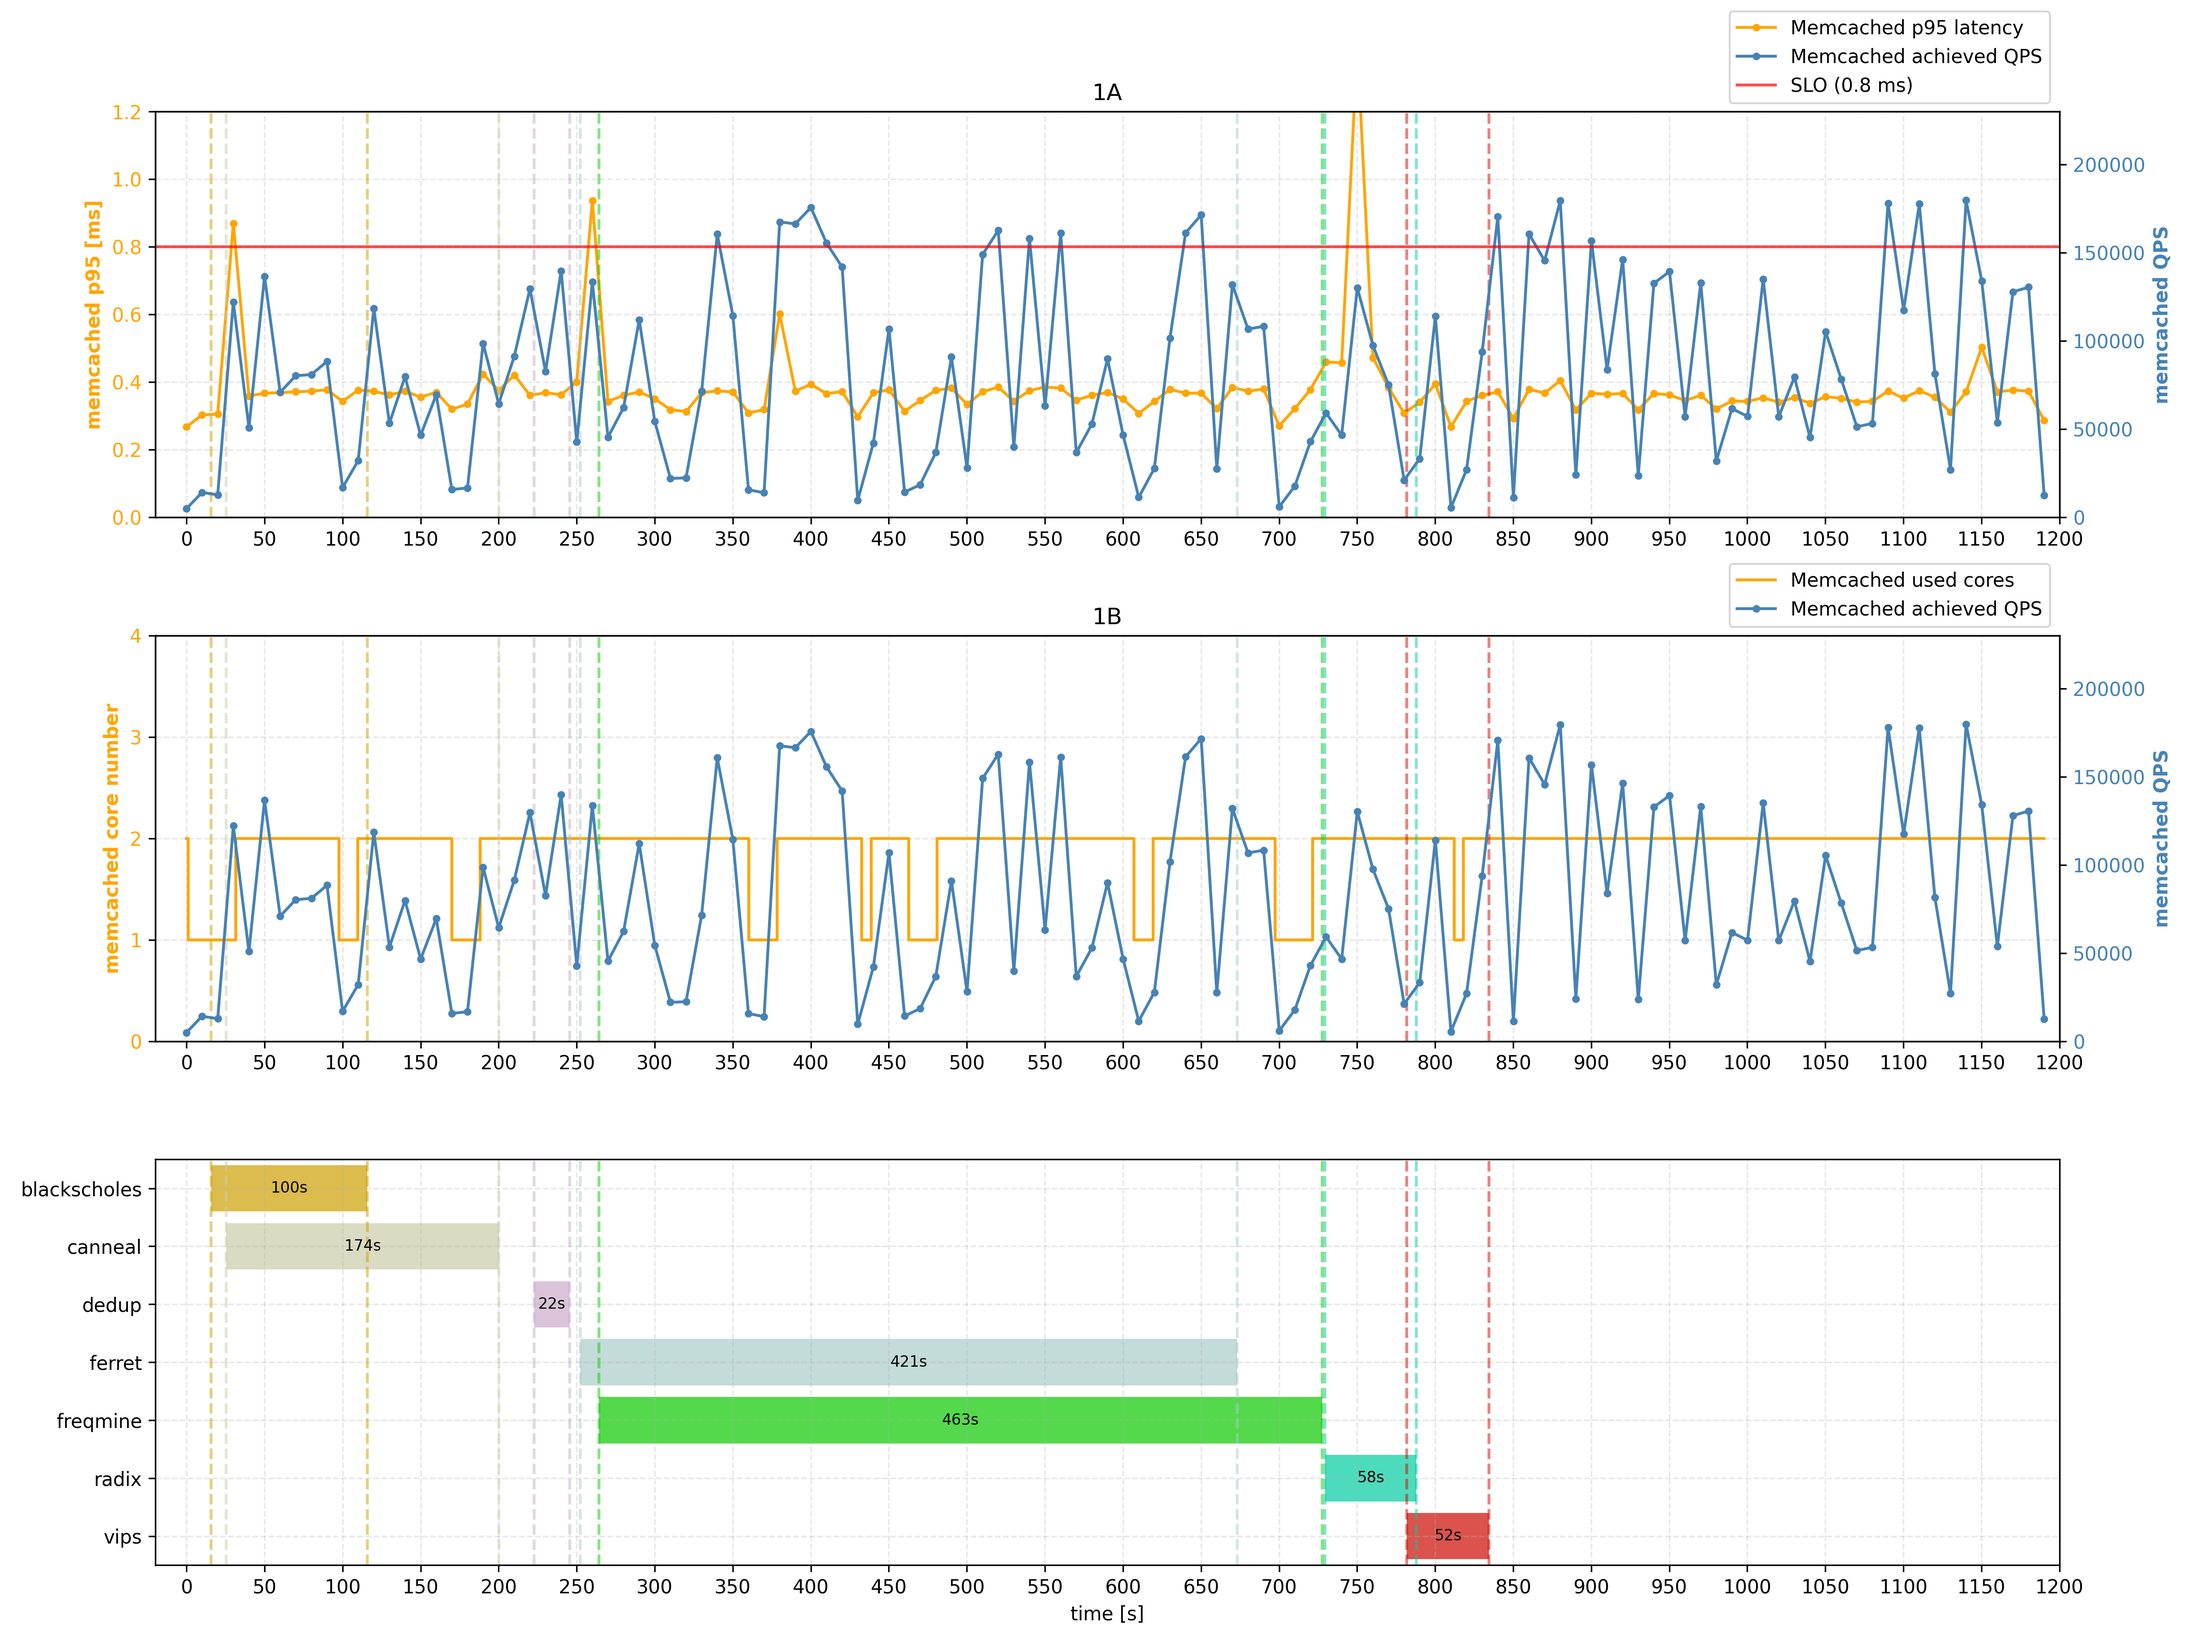
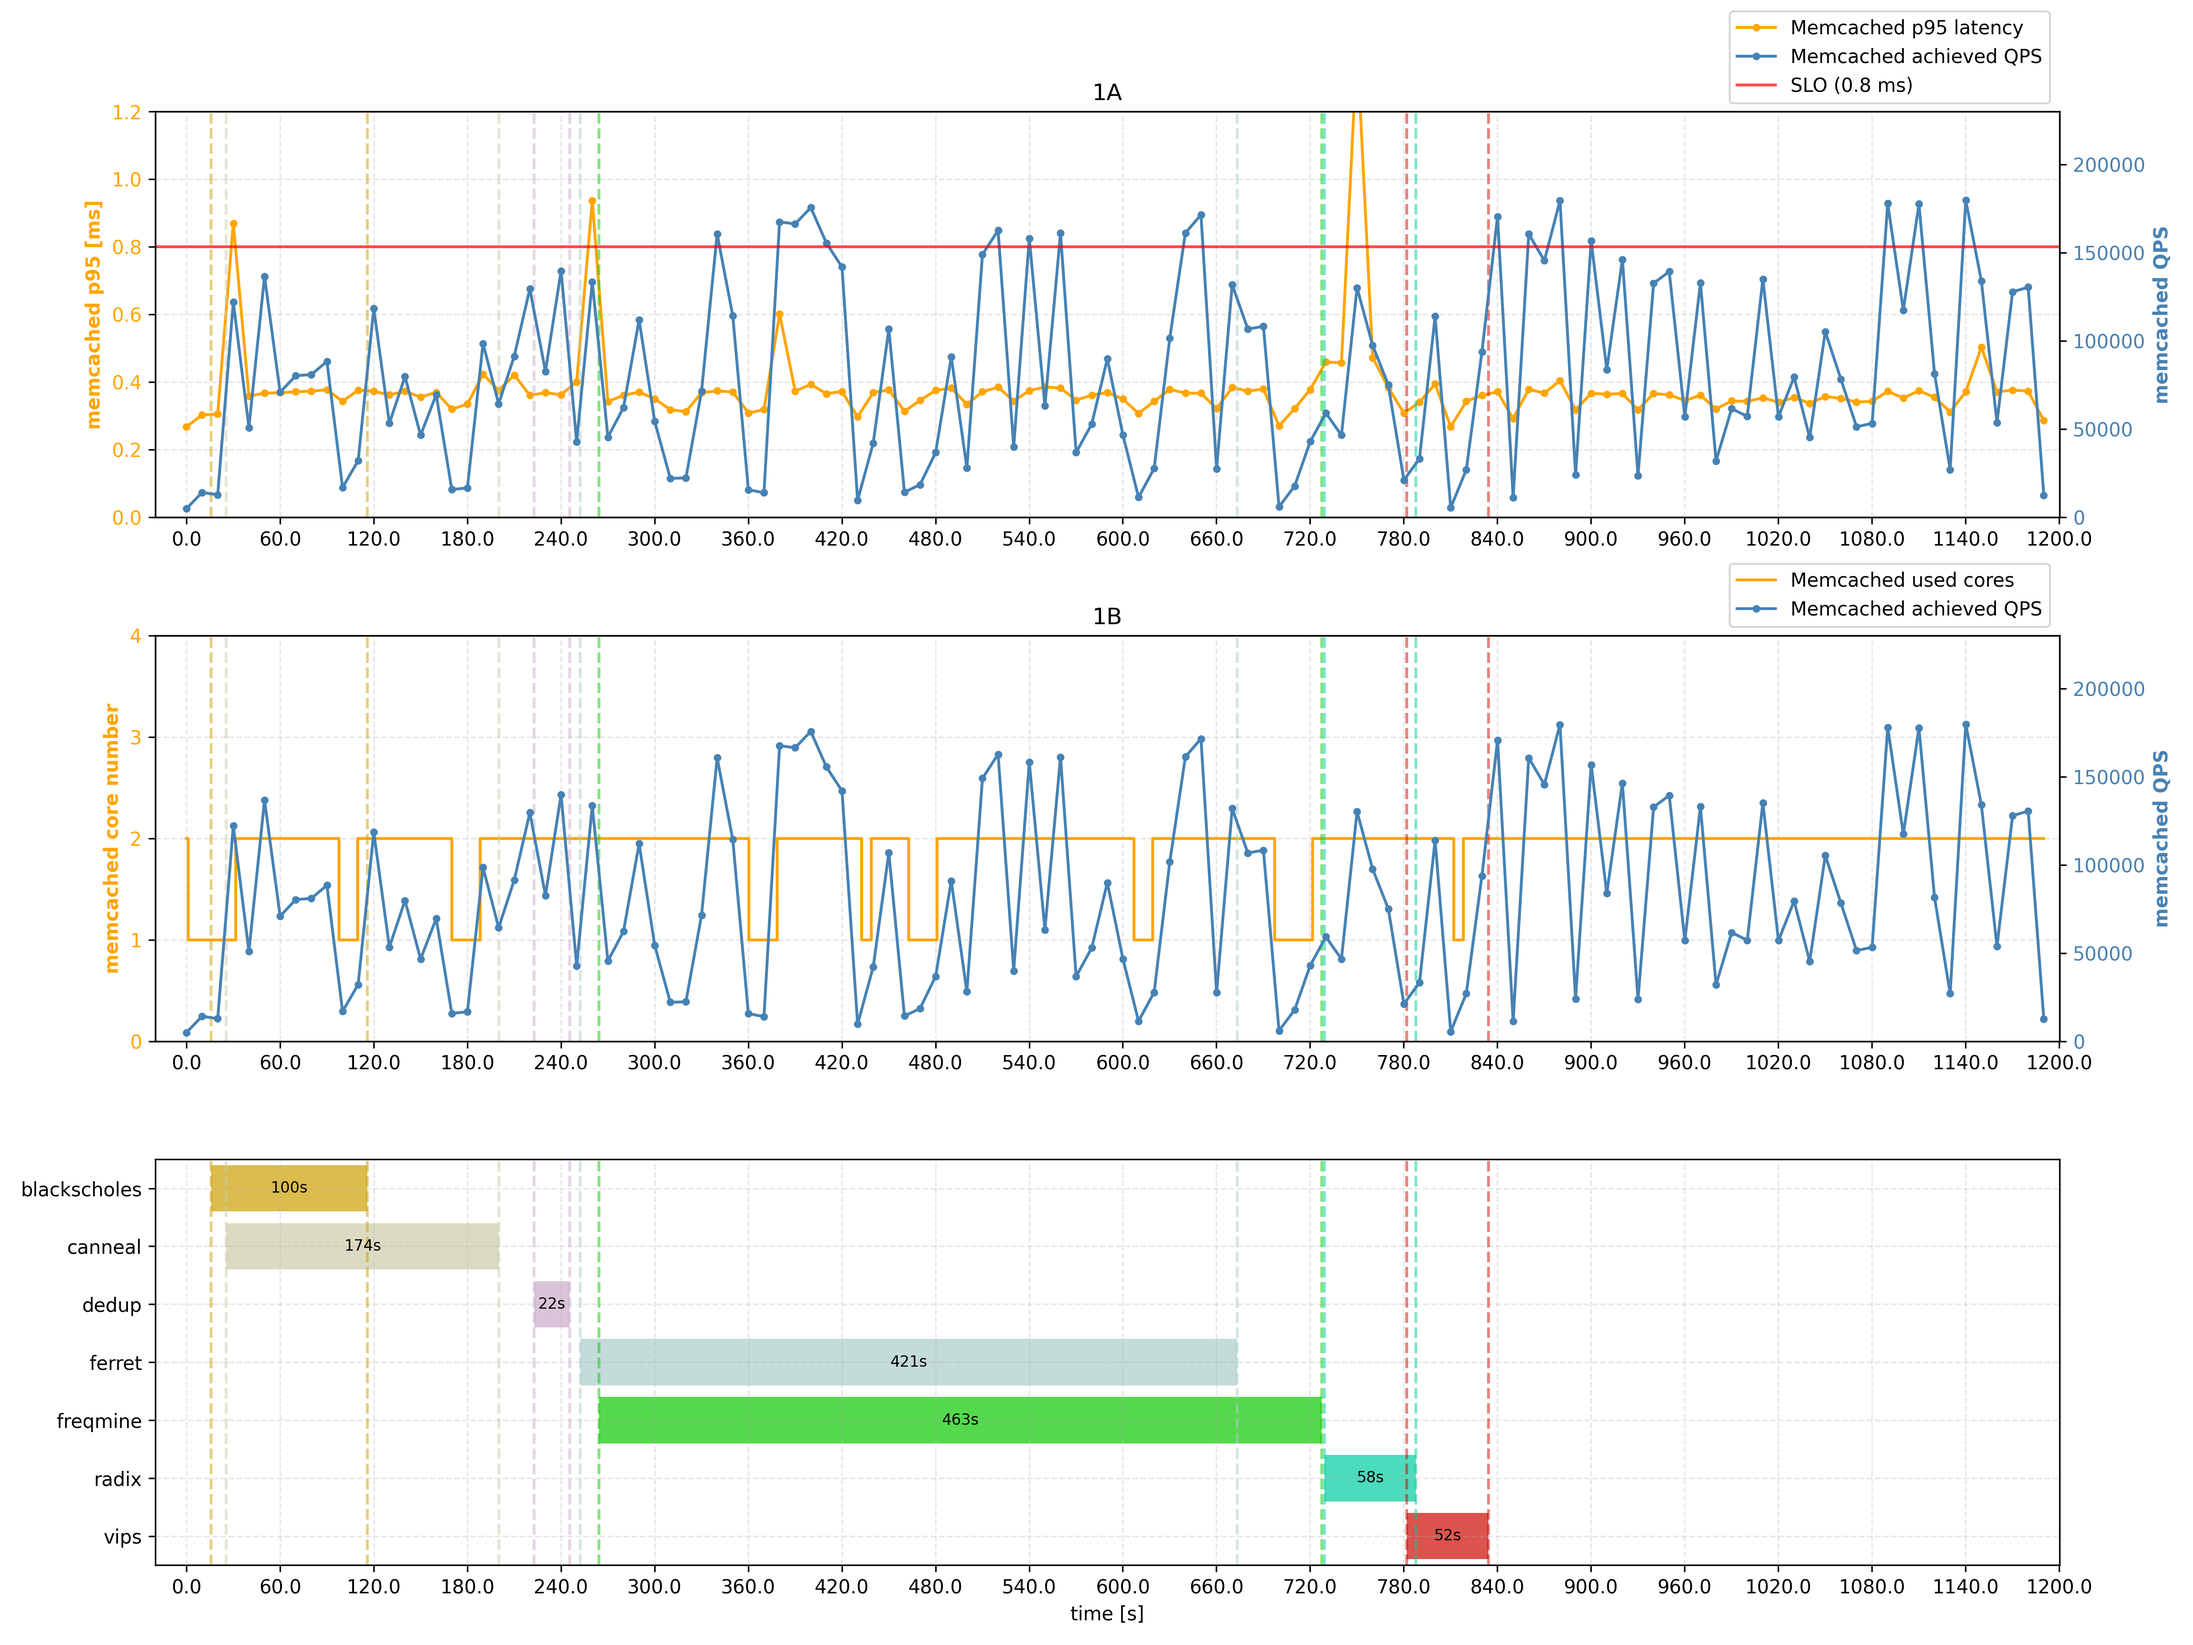
modif to plot scheduler

diff --git a/part4_2/results/scheduler4.3_plot.py b/part4_2/results/scheduler4.3_plot.py
@@ -67,8 +67,12 @@ timestamp_start = int(re.search(r'Timestamp start: (\d+)', content).group(1))
 timestamp_end = int(re.search(r'Timestamp end: (\d+)', content).group(1))
 total_intervals = int(re.search(r'Total number of intervals = (\d+)', content).group(1))
 
-# Calculate time step
+# Calculate time step and total duration in seconds
 time_step = (timestamp_end - timestamp_start) / total_intervals
+total_duration_seconds = (timestamp_end - timestamp_start) / 1000  # Convert ms to seconds
+
+# Use the total duration instead of fixed 1200 seconds
+display_max_time = total_duration_seconds
 
 # Extract performance data
 performance_data = []
@@ -122,7 +126,7 @@ for _, row in jobs_df[jobs_df['job'] == 'memcached'].iterrows():
 
 # Get the maximum time from QPS data for proper display
 max_qps_time = perf_df['seconds'].max()
-display_max_time = 1200  # Set fixed display to 1200 seconds
+#display_max_time = 1200  # Set fixed display to 1200 seconds
 
 # Make sure we have the last core count and extend it to the end of the plot
 if memcached_cores:
@@ -258,7 +262,10 @@ for i, job in enumerate(job_names):
         ax3.text(timeline['start'] + duration/2, i, f"{int(duration)}s", 
                  va='center', ha='center', fontsize=8, color='black')
 
-x_ticks = np.arange(0, display_max_time + 50, 50)
+#x_ticks = np.arange(0, display_max_time + 50, 50)
+# Dynamically calculate tick intervals based on total duration
+tick_interval = max(50, int(total_duration_seconds / 20))  # At least 50s, or divide duration into ~20 ticks
+x_ticks = np.arange(0, display_max_time + tick_interval, tick_interval)
 
 # Add vertical lines at job start and end times
 for job in job_timelines:
@@ -273,7 +280,7 @@ for job in job_timelines:
         axes.set_xticklabels([str(t) for t in x_ticks])
         axes.tick_params(axis='x', labelbottom=True) 
         axes.xaxis.set_visible(True)  # ensure x-axis is visible
-        
+        axes.set_xlim(-20, display_max_time)
 
 ax3.set_xlabel('time [s]')
 
